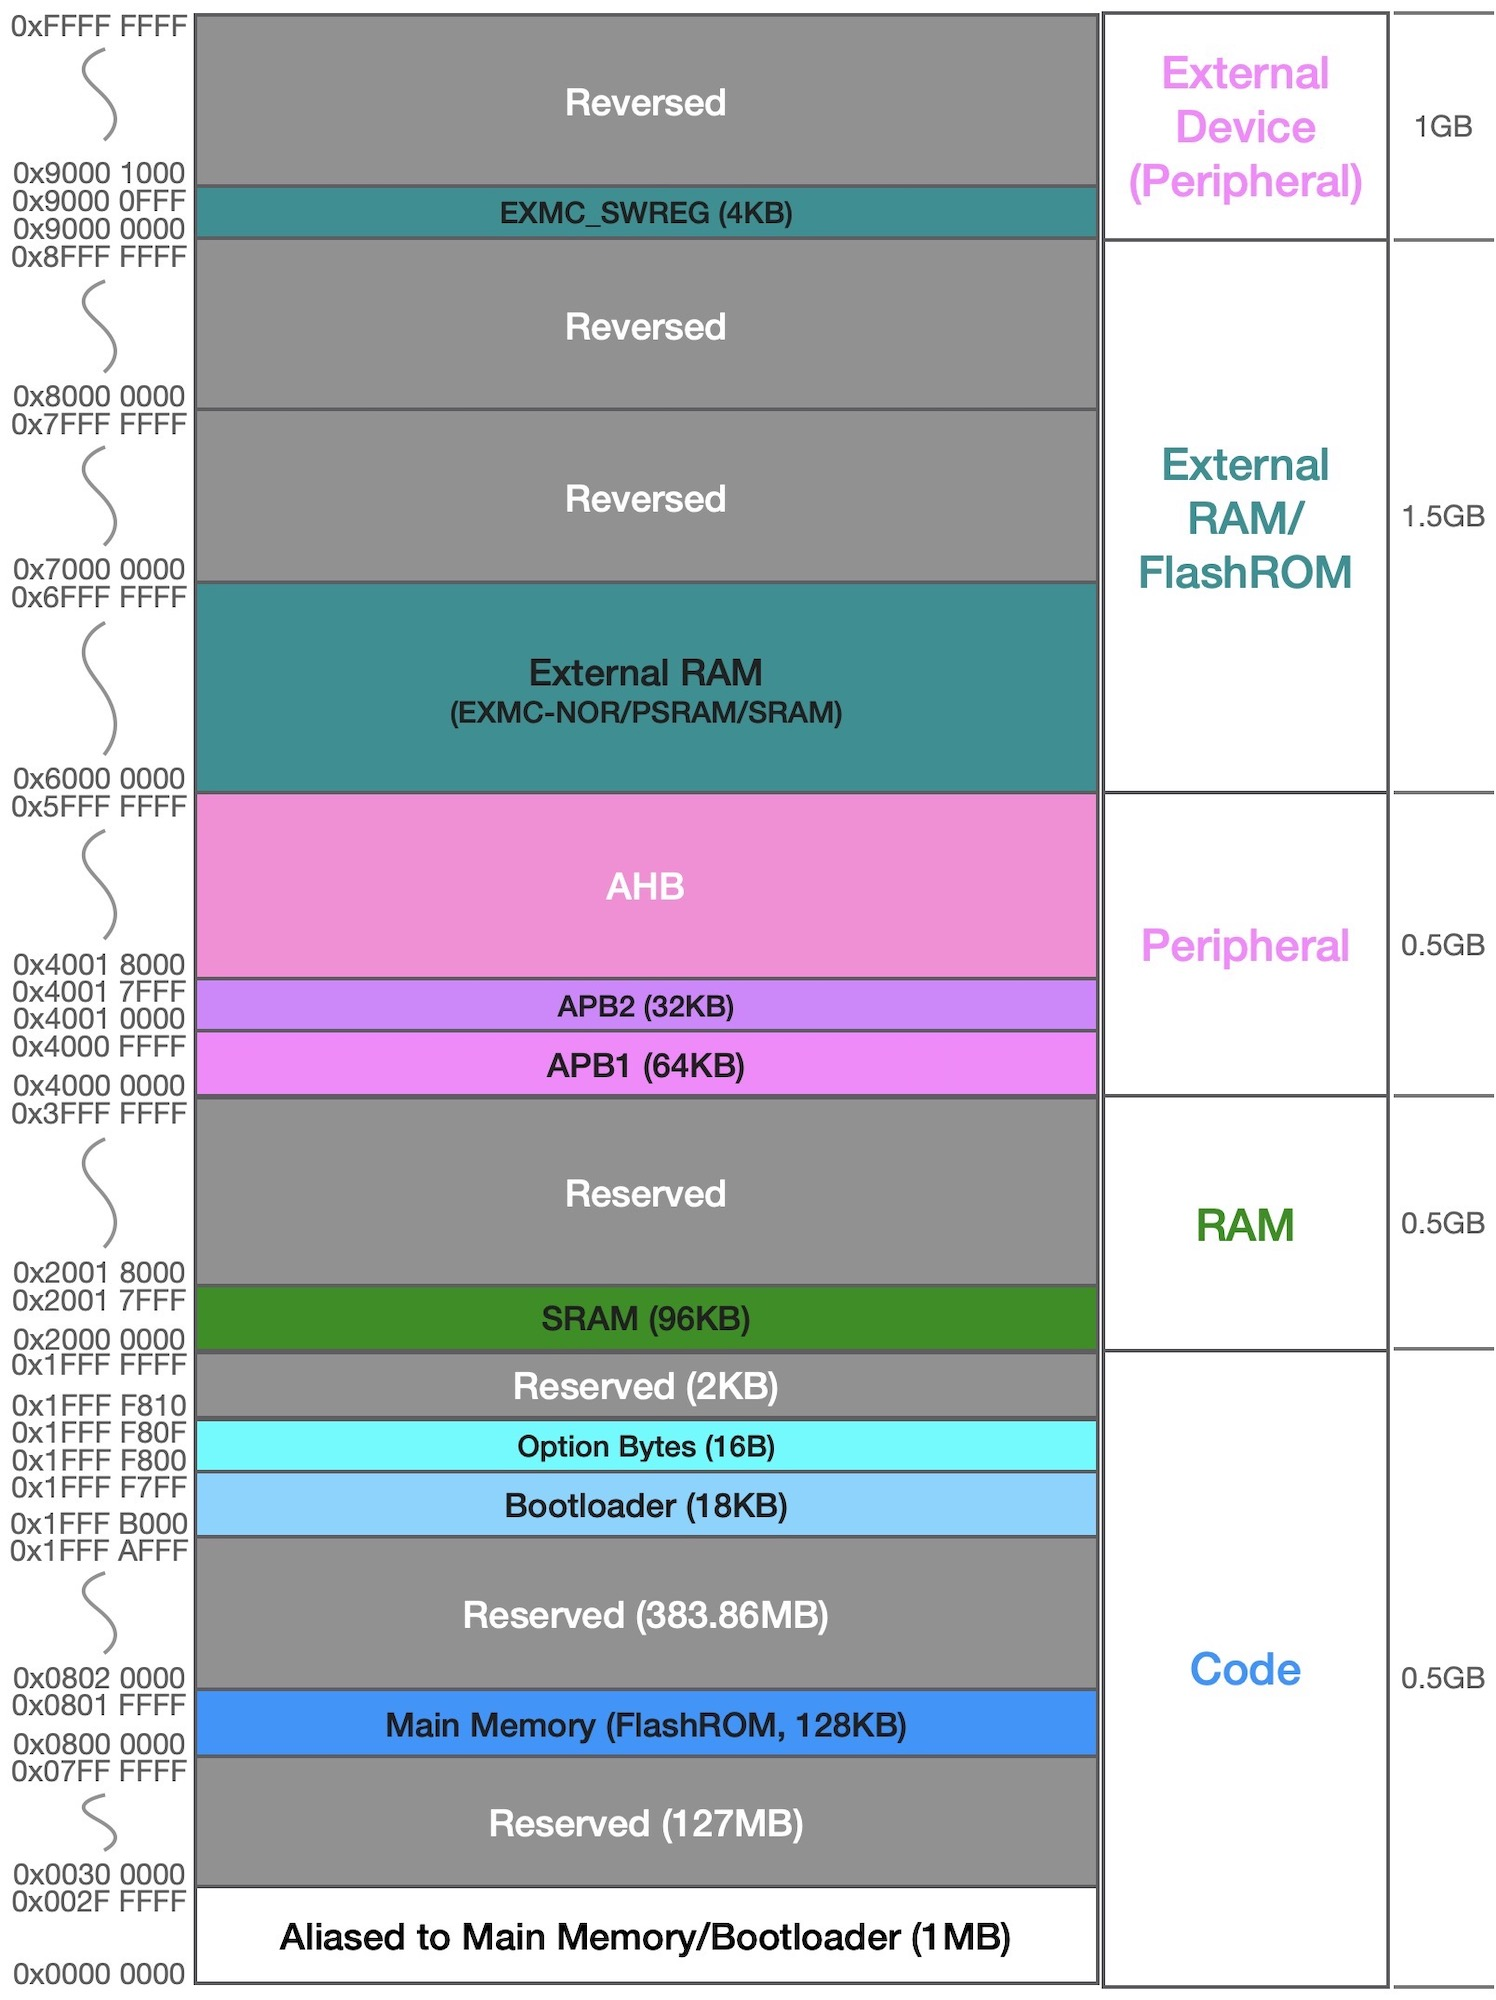
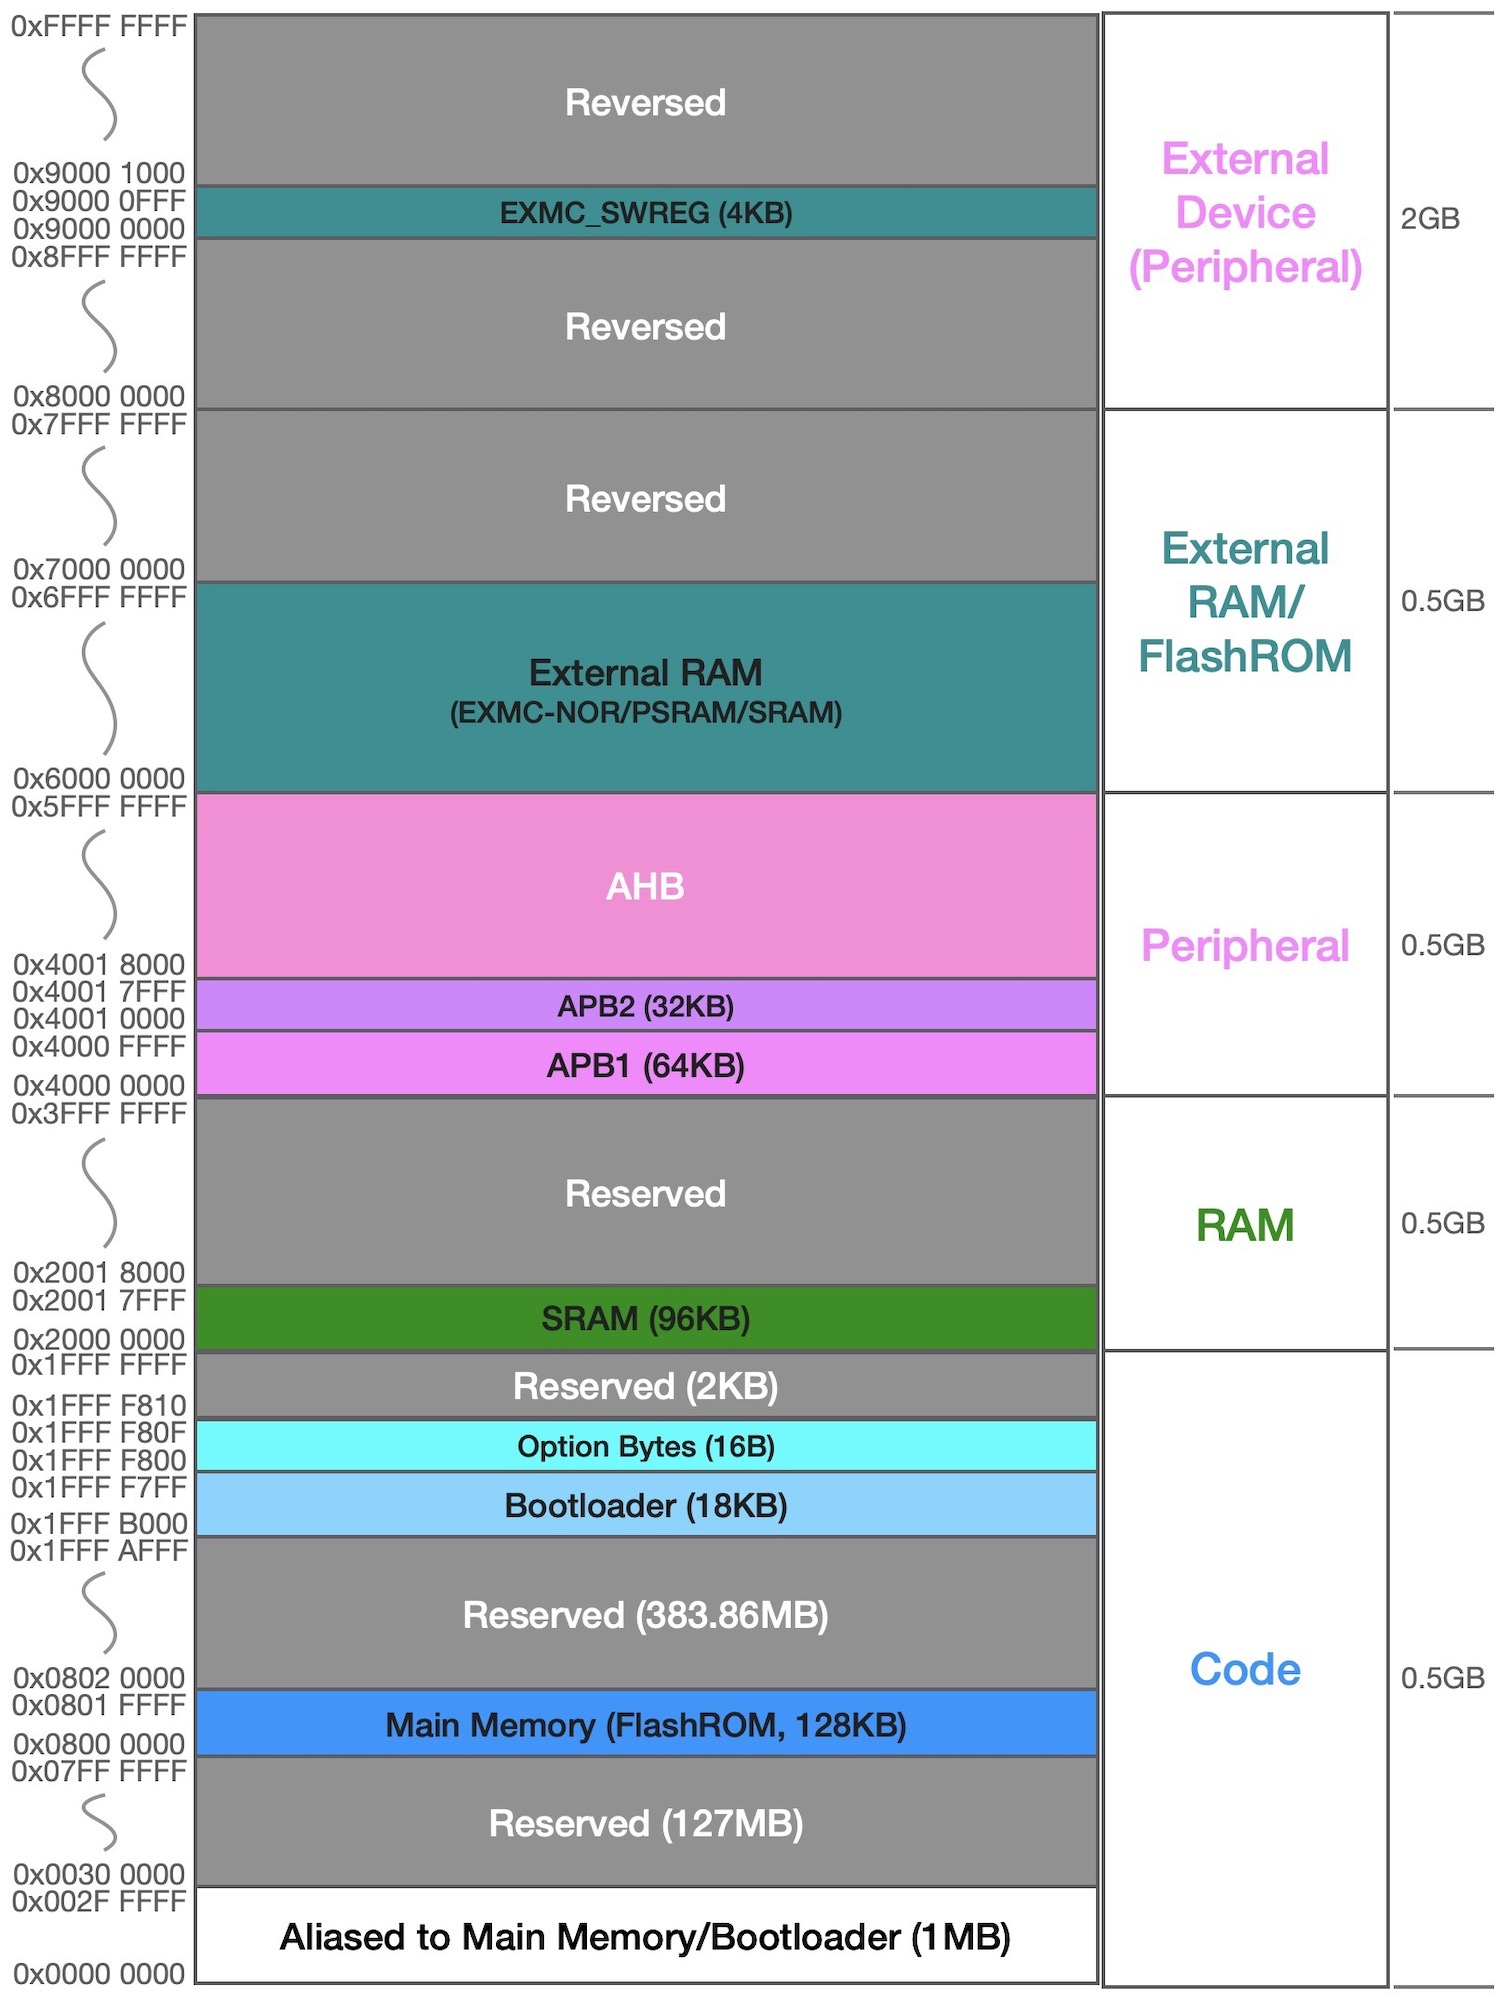
update ch2.4

Changed region(s): [[0.738, 0.031, 0.984, 0.155], [0.738, 0.217, 0.9225, 0.341], [0.9532, 0.248, 1.0, 0.31]]

diff --git a/source/c2_ec_structure/system_mem.rst b/source/c2_ec_structure/system_mem.rst
@@ -79,7 +79,7 @@ ISA MCU的存储器系统及其映射规则，如图2.23所示。GD32VF103采用
 
 图2.23  一种RISC-V ISA MCU(GD32VF103)的存储器系统映射
 
-
+通过对比图2.21、图2.22和图2.23可以看出，GD32VF103的存储器映射规则与ARM Cortex-M系列相似，尤其最前面的2GB地址空间。
 
 
 
